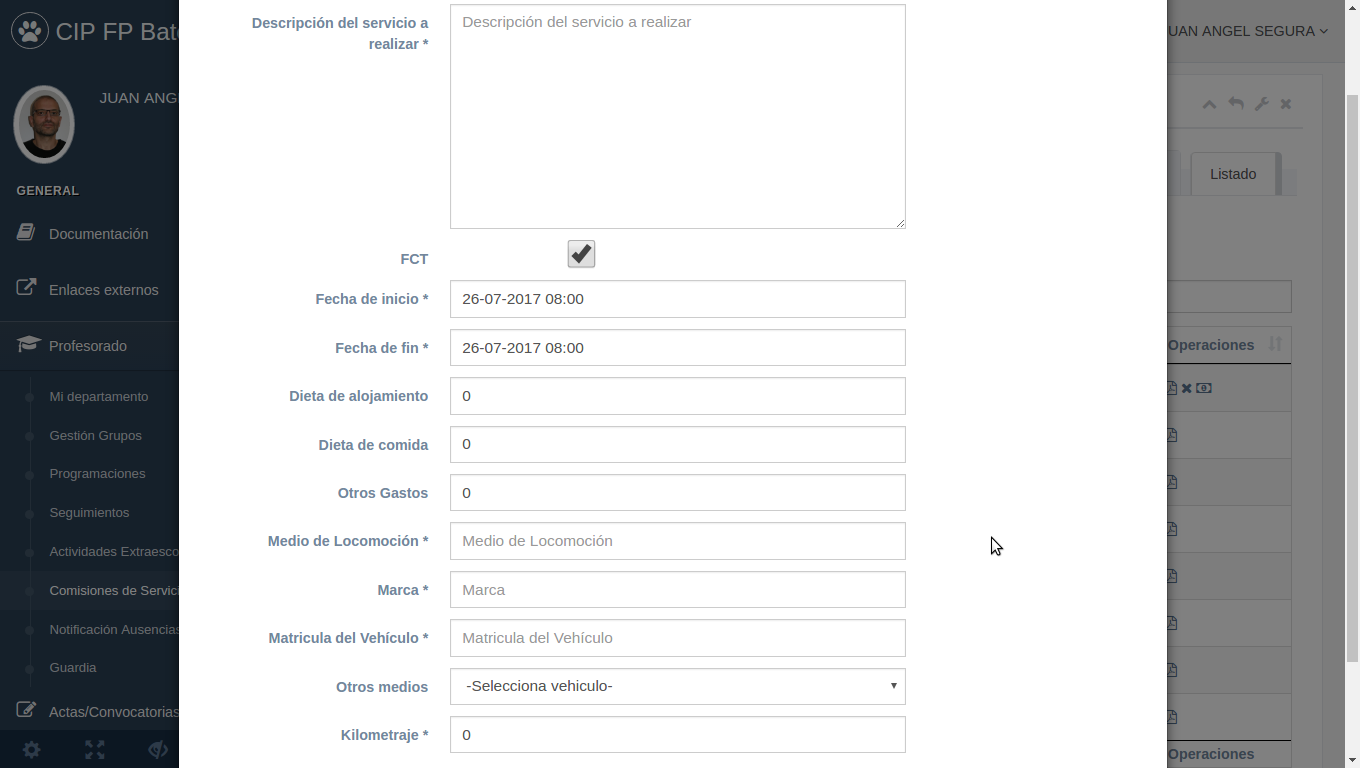
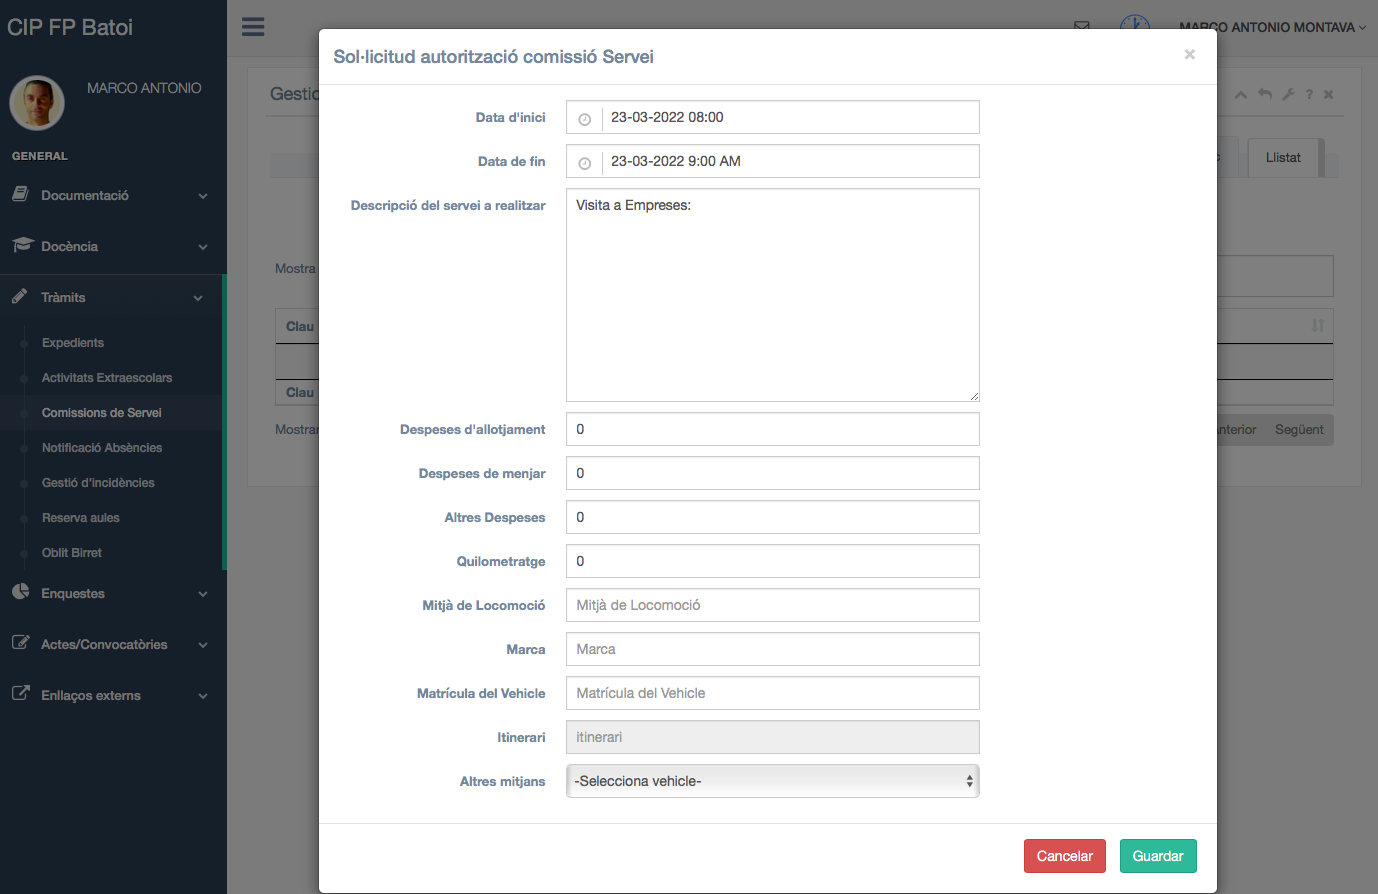
Modificat Tramits / Comissions servei, canvi imatges

diff --git a/docs/manual-profe.md b/docs/manual-profe.md
@@ -326,7 +326,7 @@ No podem modificar ni anul·lar comisions cobrades ni pendents de cobrament.
 Polsem el botó 'Sol·licitud autorització comissió de servei' i omplim el formulari:
 ![Alta Comissió de servei](./img/ajuda/13-comissions-alta.png)
 
-Quan polsem el botó 'Aceptar' (es troba a la part inferior del formulari) es crea la nova comissió amb l'estat de 'No autoritada'. Ara podrem borrar-la, modificar-la o enviar-la per autoritzar.
+Quan polsem el botó 'Guardar' (es troba a la part inferior del formulari) es crea la nova comissió amb l'estat de 'No autoritada'. Ara podrem borrar-la, modificar-la o enviar-la per autoritzar.
 
 ### Notificació absències
 Aquesta aplicació ens permet informar a Caporalia de qualsevol absència i justificar-la.
